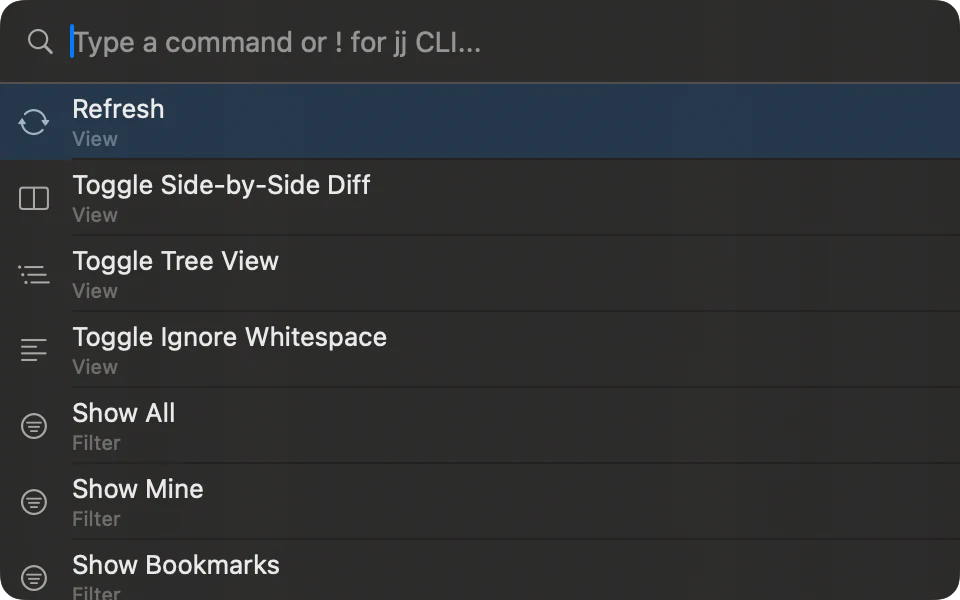
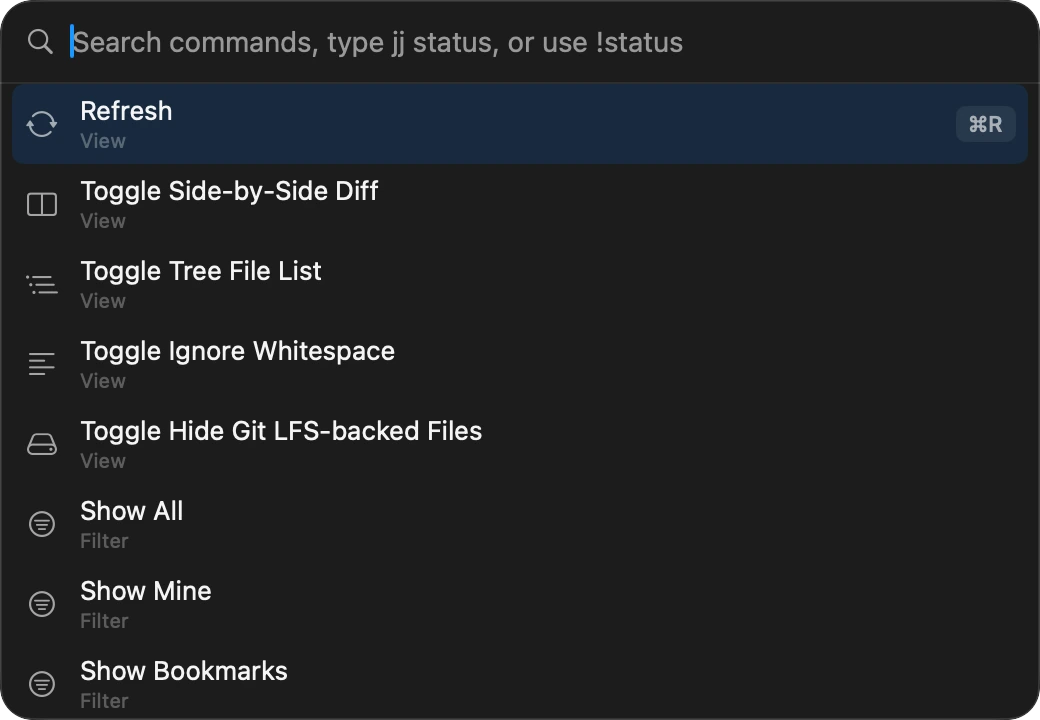
docs: website review feature + lightbox, palette shots, code-review guide
- Landing + guide: working-copy review & split feature, stacked-PR gh/glab note, "diff any two revisions" heading, showcase reorder, expanded bookmark cell.
- Click-to-zoom lightbox via shared deferred docs/lightbox.js.
- Trimmed command-palette screenshots (transparent rounded corners) + review screenshots.
- Add agents/code-review.md and link it from AGENTS.md.
- AGENTS: don't add AI attribution automatically; code-review guide asks for a mini test matrix on crucial changes; fix jj split syntax (filesets are positional).

diff --git a/docs/index.html b/docs/index.html
@@ -206,7 +206,7 @@
     .show-img img { display: block; width: 100%; }
     /* Close-up screenshots: frame smaller and centered instead of blown up edge-to-edge. */
     .show-img.tight { display: flex; align-items: center; justify-content: center; padding: 28px; background: var(--panel); }
-    .show-img.tight img { width: auto; max-width: 76%; border: 1px solid var(--line); border-radius: 8px; box-shadow: 0 12px 32px -18px rgba(0, 0, 0, .4); }
+    .show-img.tight img { width: auto; max-width: 76%; filter: drop-shadow(0 10px 22px rgba(0, 0, 0, .22)); }
     @media (max-width: 820px) { .show, .show.rev { grid-template-columns: 1fr; gap: 22px; } .show.rev .show-text { order: 0; } }
     .show-more { text-align: center; margin-top: 18px; font-size: 15.5px; color: var(--muted); }
     .show-more a { color: var(--accent); text-decoration: none; font-weight: 600; }
@@ -343,12 +343,13 @@
       <div class="sec-label">// what's inside</div>
       <h2 class="sec-h">A complete jj surface — graph to conflict, one window.</h2>
       <div class="grid">
-        <div class="cell"><div class="n">graph</div><h3>Lane-based DAG</h3><p>Fork/merge lanes with bookmark, tag, conflict, and divergent markers — drag a bookmark to move it. Highlighted shortest change-ids; revset filtering with preset chips; immutable-aware menus.</p></div>
+        <div class="cell"><div class="n">graph</div><h3>Lane-based DAG</h3><p>Fork/merge lanes with bookmark, tag, conflict, and divergent markers. Highlighted shortest change-ids; revset filtering with preset chips; immutable-aware menus.</p></div>
         <div class="cell"><div class="n">diff</div><h3>Side-by-side &amp; word-level</h3><p>Histogram diff, tree-sitter highlighting, intraline changes, context collapsing, background preloading.</p></div>
         <div class="cell"><div class="n">interdiff</div><h3>Compare any revisions</h3><p>Shift-click two changes for a PR-style diff between them — full file navigation included.</p></div>
         <div class="cell"><div class="n">diff edit</div><h3>Split by line</h3><p>Select files, hunks, or individual lines and extract them into a new change. Mark files reviewed, then split.</p></div>
+        <div class="cell"><div class="n">review</div><h3>Review, then split</h3><p>Step through changed files like a PR. <code>Space</code> marks one reviewed; tick them off, then split the selected files into a clean change.</p></div>
         <div class="cell"><div class="n">evolog</div><h3>Change evolution</h3><p>Replay every snapshot of a change over time, with filtering and restore — jj's superpower, made visible.</p></div>
-        <div class="cell"><div class="n">bookmark</div><h3>Bookmarks &amp; diff</h3><p>Stats dashboard, prune/forget stale bookmarks, auto-track on fetch, and diff a bookmark against its base.</p></div>
+        <div class="cell"><div class="n">bookmark</div><h3>Bookmarks &amp; diff</h3><p>Drag a bookmark onto any change to move it, with a live drop preview. Stats dashboard, prune/forget stale bookmarks, auto-track on fetch, and diff a bookmark against its base.</p></div>
         <div class="cell"><div class="n">stacked PR</div><h3>Stacked PRs &amp; MRs</h3><p>One GitHub PR or GitLab MR per change in a linear stack, with dependent bases. Editable, AI-named branches; re-run to update them.</p></div>
         <div class="cell"><div class="n">conflict</div><h3>One-click resolve</h3><p>Use Ours / Use Theirs inline, or open the editor merge tool via <span class="mono">jj resolve</span>. Divergent detection.</p></div>
         <div class="cell"><div class="n">palette</div><h3>Command palette</h3><p>Fuzzy-search ~35 actions; run raw jj with an <span class="mono">!</span> prefix and inline output — no terminal needed.</p></div>
@@ -373,9 +374,21 @@
 
     <div class="show rev">
       <div class="show-text">
+        <div class="lbl">review &amp; split</div>
+        <h3>Your daily working-copy ritual</h3>
+        <p>Walk your working copy file by file. <code>Space</code> sets a per-file review checkbox that survives restarts and only clears when content changes. Then split the selected files into a clean change.</p>
+      </div>
+      <div class="show-img">
+        <img class="dark-only" src="imgs/review-dark.webp" alt="Working-copy review with per-file review checkboxes" width="2560" height="1549" loading="lazy">
+        <img class="light-only" src="imgs/review.webp" alt="Working-copy review with per-file review checkboxes" width="2560" height="1549" loading="lazy">
+      </div>
+    </div>
+
+    <div class="show">
+      <div class="show-text">
         <div class="lbl">diff edit</div>
-        <h3>Split work, line by line</h3>
-        <p>Select files, hunks, or individual lines and extract them into a new change — mark files reviewed as you go. Perfect for carving a big working copy into clean, reviewable commits.</p>
+        <h3>Edit diffs across files</h3>
+        <p>Pick hunks or individual lines from any file in the change, then split exactly that selection into a clean child — line-by-line control across your whole working copy.</p>
       </div>
       <div class="show-img">
         <img class="dark-only" src="imgs/diff-edit-dark.webp" alt="Diff edit — split by line" width="2560" height="1311" loading="lazy">
@@ -383,11 +396,12 @@
       </div>
     </div>
 
-    <div class="show">
+    <div class="show rev">
       <div class="show-text">
         <div class="lbl">stacked pull requests</div>
         <h3>One PR per change, stacked</h3>
         <p>Right-click the tip of a linear stack → <strong>Create / Update Stacked PRs</strong>. JayJay names a branch per change — editable, or suggested by Apple Intelligence — pushes them, and opens one GitHub PR or GitLab MR per change with dependent bases. Re-run any time to update.</p>
+        <p style="margin-top: 10px; font-size: 13px; color: var(--muted);">* Needs the GitHub <code>gh</code> or GitLab <code>glab</code> CLI installed.</p>
       </div>
       <div class="show-img">
         <img class="dark-only" src="imgs/stacked-pr-dark.webp" alt="Stacked PRs preview" width="2560" height="1311" loading="lazy">
@@ -395,11 +409,11 @@
       </div>
     </div>
 
-    <div class="show rev">
+    <div class="show">
       <div class="show-text">
         <div class="lbl">interdiff</div>
-        <h3>A PR review for any two changes</h3>
-        <p>Shift-click two commits in the DAG to see exactly what moved between them — syntax-highlighted, with file-by-file navigation.</p>
+        <h3>Diff any two revisions</h3>
+        <p>Shift-click any two revisions in the DAG — two bookmarks, a PR branch and its base, or any two changes — to see exactly what moved between them. Syntax-highlighted, with file-by-file navigation.</p>
       </div>
       <div class="show-img">
         <img class="dark-only" src="imgs/interdiff-dark.webp" alt="Interdiff" width="2560" height="1311" loading="lazy">
@@ -407,7 +421,7 @@
       </div>
     </div>
 
-    <div class="show">
+    <div class="show rev">
       <div class="show-text">
         <div class="lbl">conflict resolution</div>
         <h3>Resolve without leaving the app</h3>
@@ -419,7 +433,7 @@
       </div>
     </div>
 
-    <div class="show rev">
+    <div class="show">
       <div class="show-text">
         <div class="lbl">evolog</div>
         <h3>Replay a change's evolution</h3>
@@ -431,15 +445,15 @@
       </div>
     </div>
 
-    <div class="show">
+    <div class="show rev">
       <div class="show-text">
         <div class="lbl">command palette</div>
         <h3>Every action, one keystroke away</h3>
         <p>Hit <kbd>⌘ ⇧ P</kbd> and fuzzy-search any operation. Prefix with <code>!</code> to run raw jj commands with inline output — the terminal stays closed.</p>
       </div>
       <div class="show-img tight">
-        <img class="dark-only" src="imgs/command-palette-dark.webp" alt="Command palette" width="960" height="600" loading="lazy">
-        <img class="light-only" src="imgs/command-palette.webp" alt="Command palette" width="960" height="600" loading="lazy">
+        <img class="dark-only" src="imgs/command-palette-dark.webp" alt="Command palette" width="1040" height="720" loading="lazy">
+        <img class="light-only" src="imgs/command-palette.webp" alt="Command palette" width="1040" height="720" loading="lazy">
       </div>
     </div>
 
@@ -585,6 +599,8 @@
       if (el) el.textContent = dark ? '☾' : '☀';
     }
   </script>
+  <!-- Click any screenshot to zoom -->
+  <script src="lightbox.js" defer></script>
 </body>
 
 </html>

diff --git a/docs/guide.html b/docs/guide.html
@@ -260,16 +260,17 @@
     <section class="g" id="diffs">
       <h2>Review Diffs <a href="#diffs">#</a></h2>
       <ul>
+        <li>Review your working copy like a pull request: step through the changed files and press <code>Space</code> to tick each one off with its review checkbox. Hide reviewed files to focus on what's left.</li>
         <li>Toggle between unified and side-by-side diffs, and browse changed files as a flat list or a tree.</li>
-        <li>Use <code>Cmd+F</code> to search within the current diff. Use <code>Space</code> to mark the selected file reviewed, and hide reviewed files to focus on the rest.</li>
+        <li>Use <code>Cmd+F</code> to search within the current diff.</li>
         <li>Review state is local to your machine and survives app restarts. Marks invalidate when a file's old or new content changes, but survive rebases that keep the same bytes.</li>
         <li>Image files render as images where possible; SVG files can be viewed as source or rendered output.</li>
         <li>Renames, collapsed context, and ignore-whitespace behavior are reflected in the diff view. Copying diff text excludes gutter line numbers.</li>
       </ul>
       <figure class="shot">
-        <img class="dark-only" src="imgs/side-by-side-dark.webp" alt="Side-by-side diff with file tree" width="2560" height="1311" loading="lazy">
-        <img class="light-only" src="imgs/side-by-side.webp" alt="Side-by-side diff with file tree" width="2560" height="1311" loading="lazy">
-        <figcaption>Side-by-side layout with the file tree and tree-sitter syntax highlighting.</figcaption>
+        <img class="dark-only" src="imgs/review-dark.webp" alt="Working-copy review with per-file review checkboxes" width="2560" height="1549" loading="lazy">
+        <img class="light-only" src="imgs/review.webp" alt="Working-copy review with per-file review checkboxes" width="2560" height="1549" loading="lazy">
+        <figcaption>Review the working copy file by file — <code>Space</code> ticks each file's review checkbox.</figcaption>
       </figure>
     </section>
 
@@ -476,6 +477,8 @@
       if (el) el.textContent = dark ? '☾' : '☀';
     }
   </script>
+  <!-- Click any screenshot to zoom -->
+  <script src="lightbox.js" defer></script>
 </body>
 
 </html>

diff --git a/docs/lightbox.js b/docs/lightbox.js
@@ -1,0 +1,30 @@
+// Click any screenshot to open it full-size; click anywhere or press Esc to close.
+// Shared by index.html and guide.html.
+(function () {
+  var css =
+    '.show-img img, .shot img { cursor: zoom-in; }' +
+    '.lightbox { position: fixed; inset: 0; z-index: 1000; display: none; align-items: center; justify-content: center; padding: 4vh 4vw; background: rgba(0,0,0,.82); cursor: zoom-out; }' +
+    '.lightbox.open { display: flex; }' +
+    '.lightbox img { max-width: 96vw; max-height: 92vh; border-radius: 12px; box-shadow: 0 24px 70px rgba(0,0,0,.55); }';
+  var style = document.createElement('style');
+  style.textContent = css;
+  document.head.appendChild(style);
+
+  var lb = document.createElement('div');
+  lb.className = 'lightbox';
+  lb.setAttribute('aria-hidden', 'true');
+  var lbImg = document.createElement('img');
+  lbImg.alt = 'Enlarged screenshot';
+  lb.appendChild(lbImg);
+  document.body.appendChild(lb);
+
+  function close() { lb.classList.remove('open'); }
+  document.querySelectorAll('.show-img img, .shot img').forEach(function (img) {
+    img.addEventListener('click', function () {
+      lbImg.src = img.currentSrc || img.src;
+      lb.classList.add('open');
+    });
+  });
+  lb.addEventListener('click', close);
+  document.addEventListener('keydown', function (e) { if (e.key === 'Escape') close(); });
+})();

diff --git a/agents/code-review.md b/agents/code-review.md
@@ -1,0 +1,58 @@
+# Code Review Guide
+
+Load this file when reviewing local changes, pull requests, or proposed patches.
+
+Use this alongside the agent's native review workflow and output format. Review by default; fix issues only when the user explicitly asks.
+
+The focused docs remain the source of truth. This guide points review attention to JayJay-specific risks.
+
+## Review Setup
+
+1. Read `AGENTS.md`.
+2. Load the focused guide for the changed area: `agents/architecture.md`, `agents/testing.md`, `agents/design.md`, `agents/pull-requests.md`, or `agents/release.md`.
+3. Inspect `jj st` and the diff, then read the full changed files and nearby patterns before judging the patch.
+4. Flag direct edits to generated files, bindings, fixtures, release outputs, or documentation assets unless they trace back to source inputs.
+5. Identify the changed behavior, affected user path, and verification that would catch a regression.
+
+## Core Checks
+
+- Verify requested behavior, not just compilation.
+- Review jj operations using jj's model: changes, bookmarks, revsets, working-copy snapshots, mutable history, and `@`/`@-`. Git branch/commit assumptions are only valid for git interop.
+- Check mutating repo actions for target revision, snapshot timing, bookmark movement, conflict handling, stale state, cancellation, and undo/recovery.
+- Keep business logic in Rust core, UniFFI bindings thin, and SwiftUI/GPUI shells focused on rendering state and dispatching actions.
+- Preserve review-state invariants: content-based identity, per-file invalidation, hunk/file promotion, and local persistence.
+- Keep UI changes native, keyboard-friendly, quiet, and jj-native in wording. Use repo-level presentation types instead of ad hoc alerts or booleans.
+- Match nearby patterns. Keep patches focused, avoid speculative abstractions, prefer structured parsers/APIs, and comment only non-obvious why.
+
+## Adversarial Review
+
+Review as if repo content, remote metadata, file paths, URLs, appcast data, release notes, PR host responses, and command input may be hostile.
+
+- Challenge every trust boundary: repo to UI, UI to jj, app to shell/tool, network to release/update, browser to PR host, and persisted state to current view.
+- Look for command injection, path traversal, unsafe URL/HTML/Markdown rendering, bad shell quoting, accidental execution of repo-controlled content, and stale cache/retry paths accepting untrusted state.
+- Confirm external commands pass structured arguments instead of concatenated shell strings unless a clear escaping boundary exists.
+- Ask whether one repo, window, change, bookmark, review mark, cached response, or async task can influence another path it should not.
+- Ensure release/update flows preserve asset integrity and errors do not leak credentials, signing details, or unnecessary private paths.
+
+## Tests and Verification
+
+- Use the smallest test layer that proves behavior: Rust unit/integration, Swift unit, XCUITest scene, or GPUI component test.
+- Bug fixes should include the regression test that would have caught the bug.
+- UI tests that mutate repo state need isolated fixtures; GPUI tests should use hermetic `jj-test` fixtures and assert behavior, not pixels.
+- Report relevant checks run or missing: `just test`, `just test-app`, `just test-ui`, `just test-gpui`, `just lint`, `just build`, or release-specific commands.
+- For crucial changes — security fixes, destructive or mutating repo operations, review-state invariants, release/update integrity — include a mini test matrix: a compact table mapping the key scenarios (normal, boundary, and hostile/adversarial input) to expected behavior and the test that covers each. Flag any uncovered row as missing coverage.
+
+## Reporting
+
+Report findings first, ordered by severity, with file and line references. State the concrete bug or risk, impact, and smallest reasonable fix.
+
+If no issues are found, say that clearly and list residual risk or checks not run. Include exact verification commands that were run, skipped, or blocked.
+
+Use the agent's native severity labels when available. Otherwise use:
+
+- **Critical**: data loss, destructive repo mutation, command execution or credential exposure, release/update integrity failure, or a security issue that can compromise users.
+- **High**: broken build, likely user-facing workflow regression, incorrect jj operation, corrupted review state, invalid generated binding, broken release or PR flow.
+- **Medium**: edge-case correctness bug, stale state, brittle error handling, meaningful missing test coverage, or maintainability issue that makes future changes risky.
+- **Low**: small style, naming, or convention issue that is safe to batch with other cleanup.
+
+When asked to fix issues, make the smallest scoped patch, rerun the affected checks, and re-review the resulting diff before handing it back.

diff --git a/AGENTS.md b/AGENTS.md
@@ -11,6 +11,7 @@ Keep this file as always-loaded guidance. Load focused docs only when the task t
 - [Architecture Guide](agents/architecture.md) - MVVM boundaries, file layout, review state, presentation surfaces.
 - [Design Guide](agents/design.md) - JayJay product context, visual direction, interaction principles.
 - [Pull Request Workflow](agents/pull-requests.md) - bookmark-based GitHub and Codeberg PRs, review updates, landing.
+- [Code Review Guide](agents/code-review.md) - repo-specific review setup, adversarial checks, severity, and reporting.
 
 When a change spans multiple areas, load each relevant doc before editing.
 
@@ -89,7 +90,7 @@ jj diff
 jj describe -m "message"
 jj commit -m "message"
 jj squash
-jj split --paths FILE -m "msg"
+jj split FILE -m "msg"   # filesets are positional, not --paths
 jj edit <rev>
 jj bookmark set <name> -r <rev>
 jj git fetch
@@ -100,6 +101,8 @@ jj fix
 For PR work, load [Pull Request Workflow](agents/pull-requests.md). Use a pushed bookmark and JayJay's **Pull Request on GitHub** or **Pull Request on Codeberg** action.
 
 Do not use `git commit`, `git add`, `git push`, `git stash`, `git branch`, or `git rebase -i`; use the jj equivalents.
+
+Do not add AI attribution to commits or PRs — no `Generated with`, `Co-Authored-By`, or assistant/session trailers — unless the user explicitly asks.
 
 ## UI And Design
 
